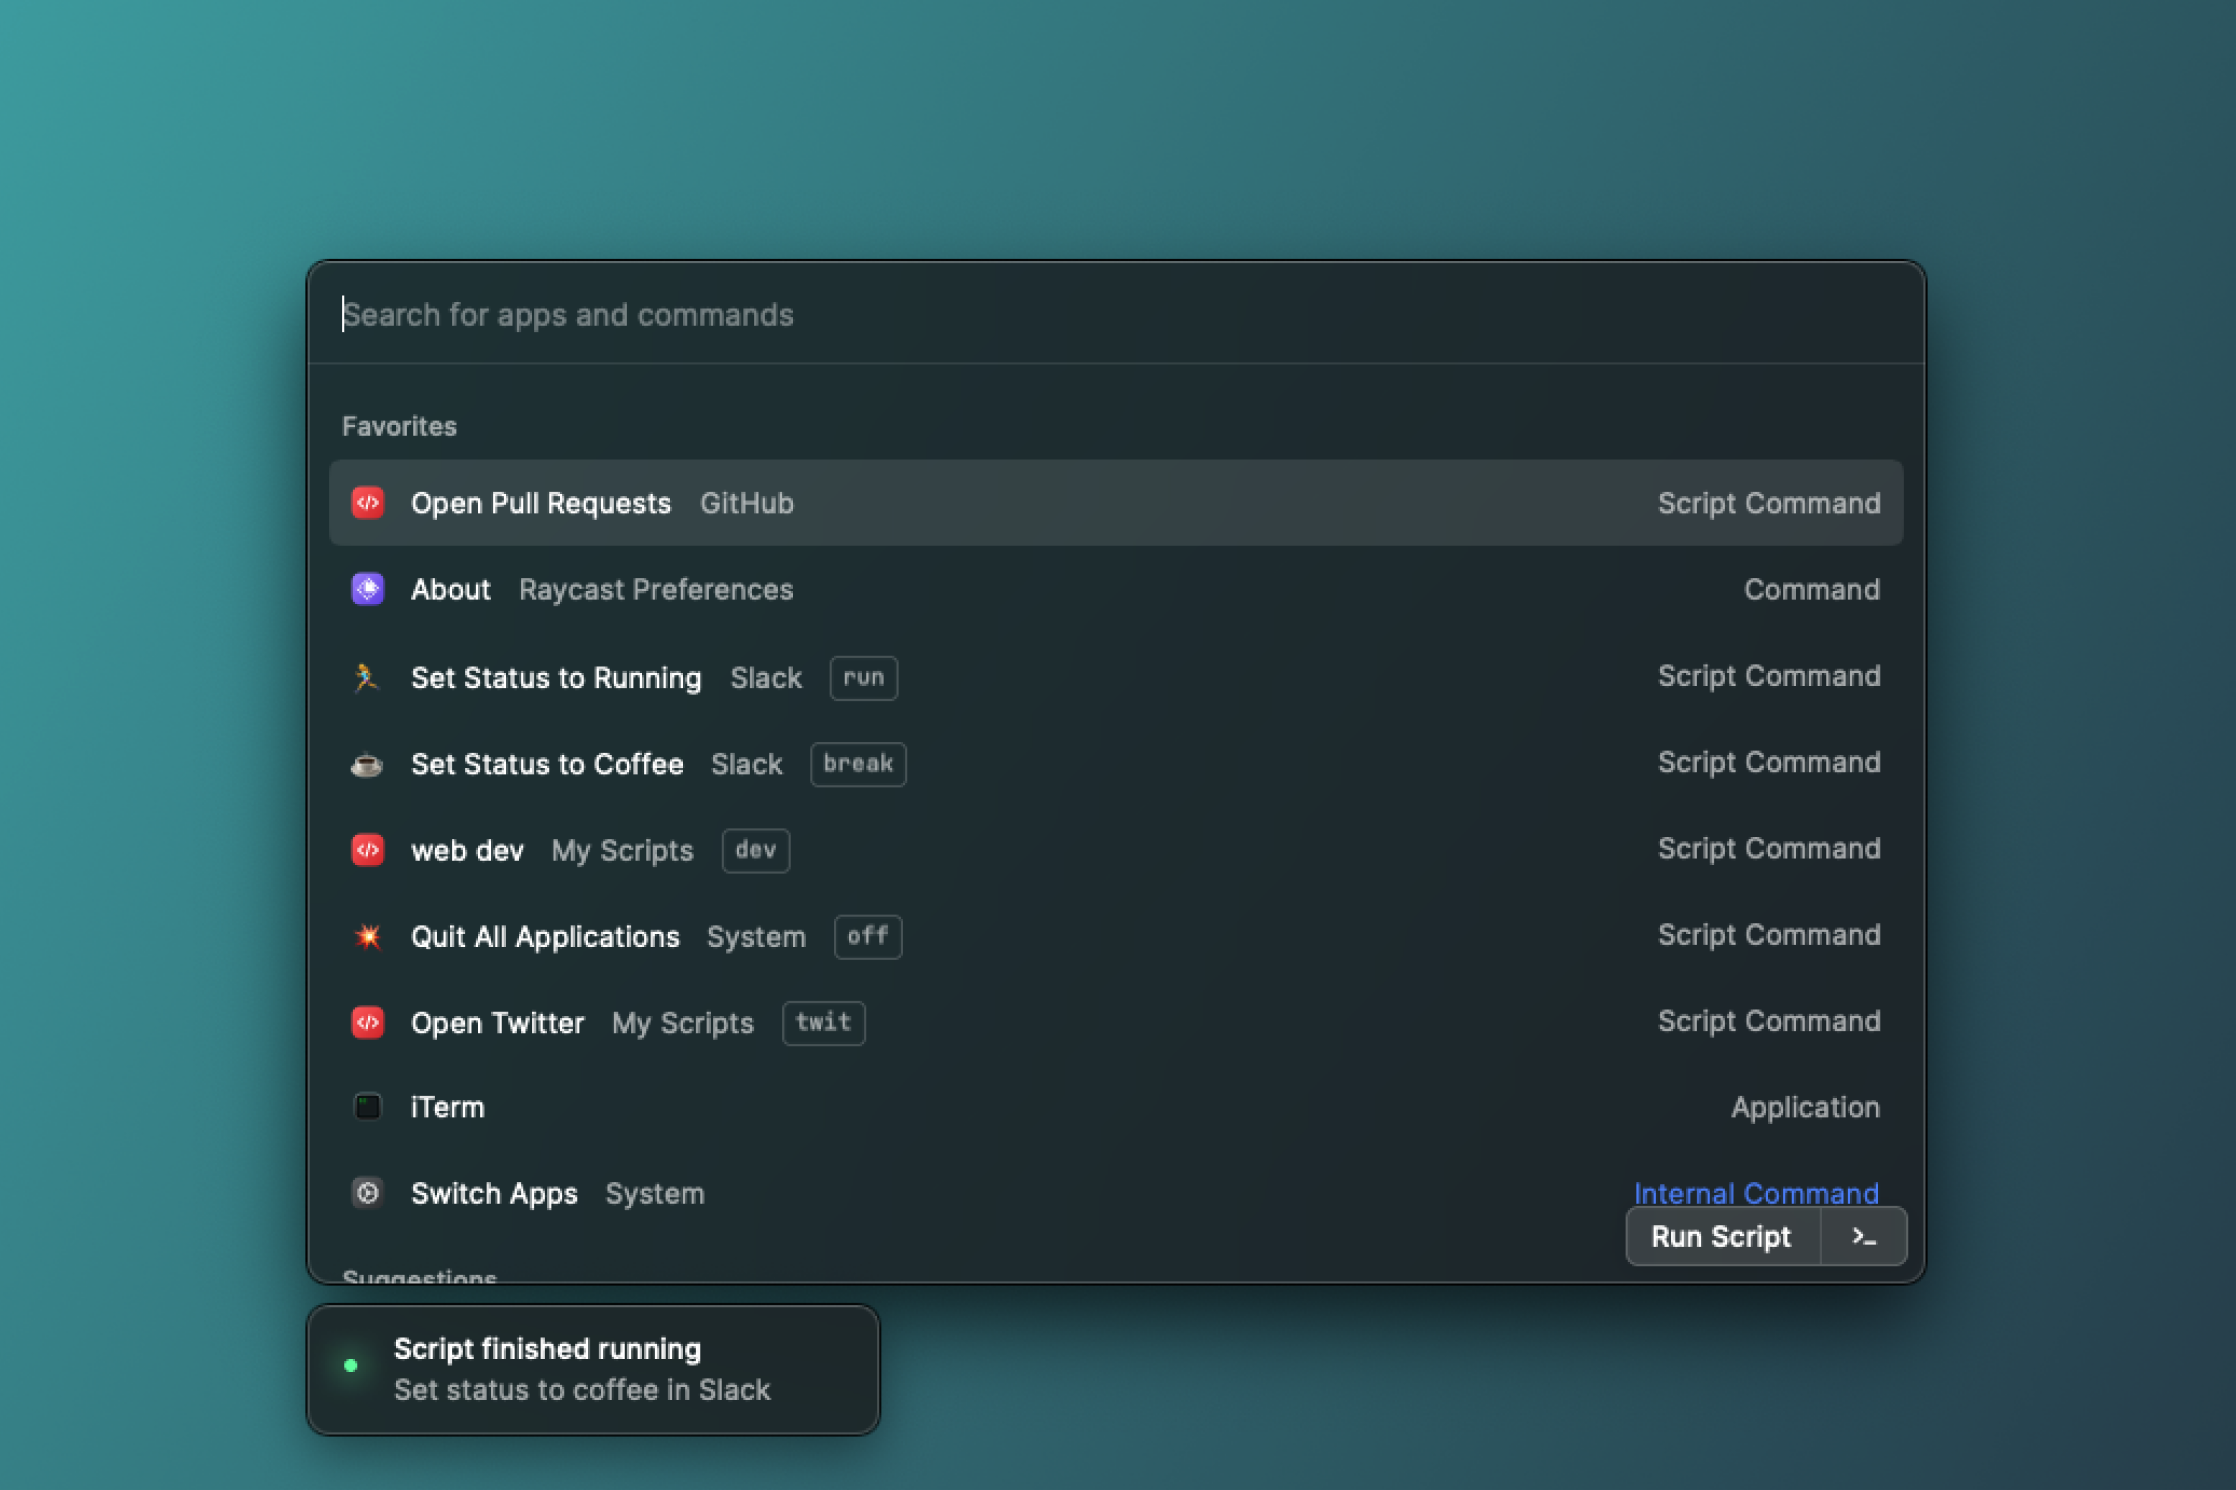
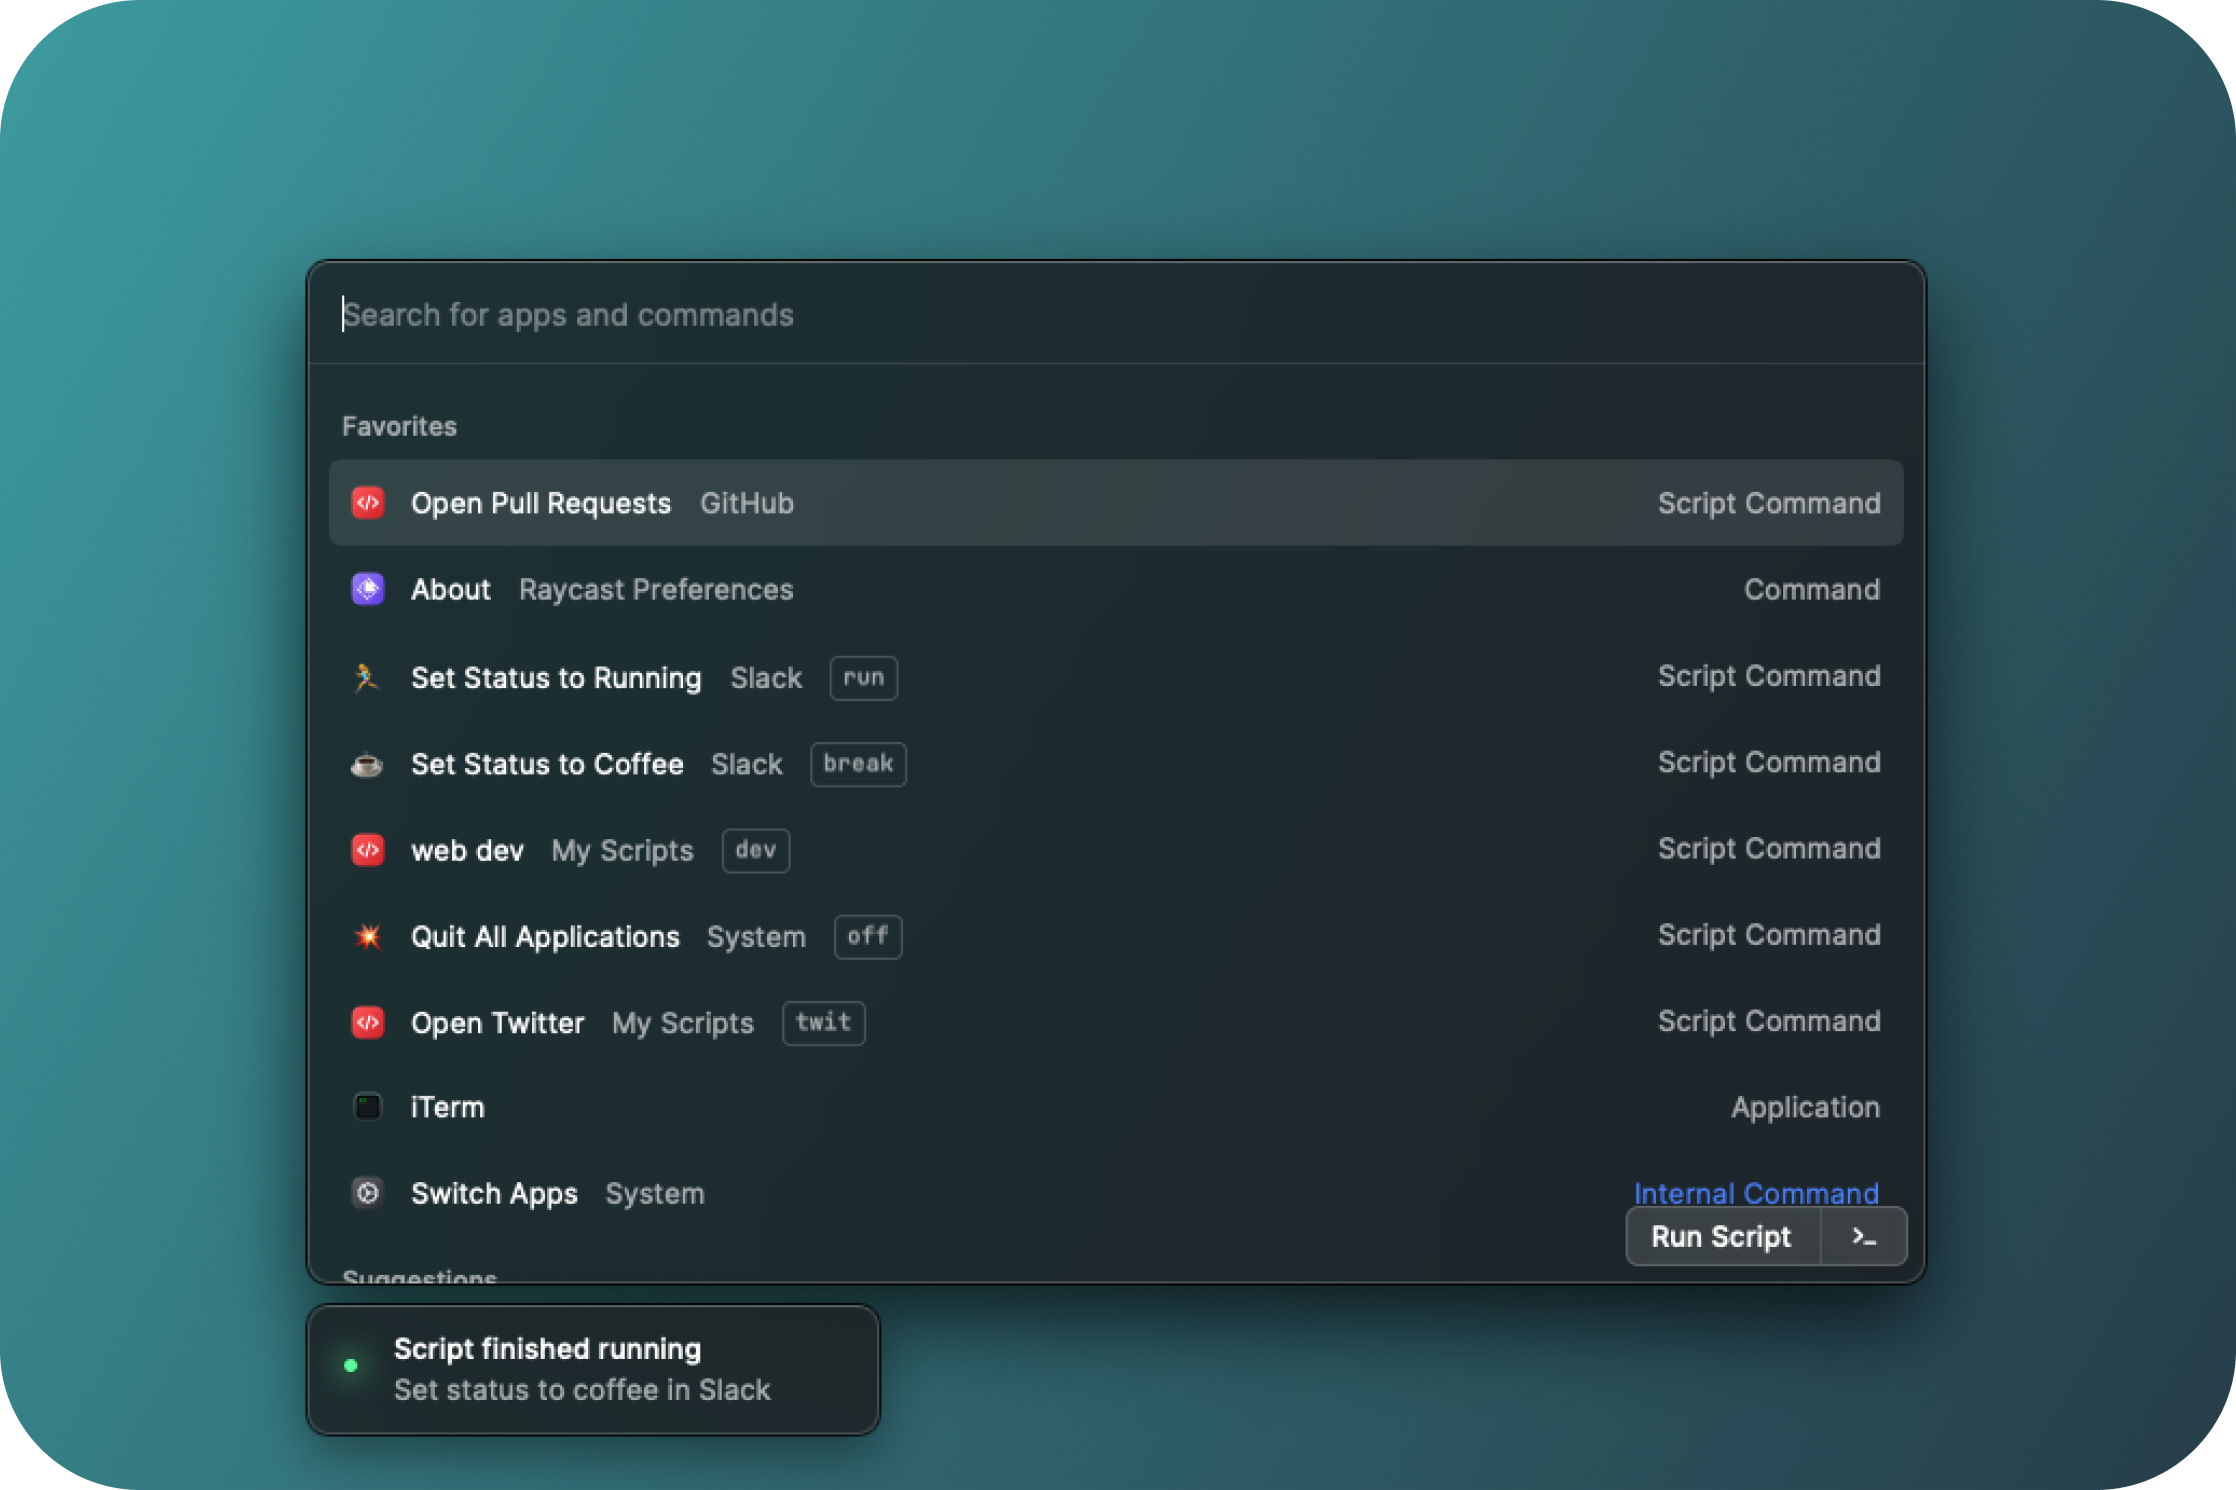
Updated screenshots and added tables

diff --git a/README.md b/README.md
@@ -70,7 +70,7 @@ These parameters are available for you to customise your Script Command in Rayca
 |----------------------|--------------------------------------------------------------------------------------------------------------------------------------------------------------------------------------------------------------------------------------------------------------------------------------|----------|---------------------|
 |schemaVersion        | Schema version to prepare for future changes in the API. Currently there is only version 1 available.                                                                                                                                                                                | Yes      | 0.29+               |
 | title                | Display name of the Script Command that is shown as title in the root search.                                                                                                                                                                                                        | Yes      | 0.29+               |
-| mode                 | Specifies how the script is executed and how the output is presented. Details of the options for this parameter can be viewed [here](https://www.notion.so/raycastapp/Output-modes-08c7a8f6d1f8490b8462032251b07857#8ff72e3b6b894f03bd012f3df1a4dfbf) | Yes      | 0.29+               |
+| mode                 | Specifies how the script is executed and how the output is presented. Details of the options for this parameter can be viewed [here](https://github.com/raycast/script-commands/blob/master/outputModes.md) | Yes      | 0.29+               |
 | packageName          | Display name of the package that is shown as subtitle in the root search. When not provided, the name will be inferred from the script directory name.                                                                                                                               | No       | 0.29+               |
 | icon                 | Icon that is displayed in the root search. Can be an emoji, a file path (relative or full) or a remote URL (only https). Supported formats for images are PNG and JPEG. Please make sure to use small icons, recommended size - 32px.                                                | No       | 0.29+               |
 | iconDark             | Same as `icon`, but for dark theme. If not specified, then `icon` will be used in both themes.                                                                                                                             | No       | 1.3.0+              |
@@ -84,7 +84,7 @@ These parameters are available for you to customise your Script Command in Rayca
 
 ### Output Mode
 
-You can use the standard output to present messages in Raycast. Depending on the `mode`, the standard output of your scripts is differently presented.`fullOutput` and `inline` modes support ANSI Escape codes allowing to colour generated output by changing its background and foreground colour. You can view the different output mode options as well as their various forms and colour options [here.](https://www.notion.so/Output-modes-08c7a8f6d1f8490b8462032251b07857)
+You can use the standard output to present messages in Raycast. Depending on the `mode`, the standard output of your scripts is differently presented.`fullOutput` and `inline` modes support ANSI Escape codes allowing to colour generated output by changing its background and foreground colour. You can view the different output mode options as well as their various forms and colour options [here.](https://github.com/raycast/script-commands/blob/master/outputModes.md)
 
 
 ### Error Handling
@@ -101,14 +101,14 @@ else
 
 ## Troubleshooting and FAQs
 <details>
-  <summary>My script isn't appearing!</summary>
+  <summary>My script isn't appearing in Raycast!</summary>
 
 * Make sure your script file is executable (you can run `file <path to script>` command in terminal to check it). To make the script executable, run: `chmod +x <path to script>`
 * Ensure the filename doesn't contain `.template.` string
 * Check that all required metadata parameters are provided. See the table above which parameters are required.
 * Ensure you use either `#` or `//` comments for metadata parameters
 * Reload the scripts, via 1) the "Reload" button in preferences or 2), the "Reload Script Directories" command in root search (v0.33+), or 3) automatically via the activated "Auto Reload" feature in preferences (v0.33+)
-* 💡 If nothing helps, try to go step by step from a [template](templates/script-command.template.sh) Script Command or use one of the examples in this repo.
+* 💡 If nothing helps, try to go step by step from a [template](https://github.com/raycast/script-commands/tree/master/templates) Script Command or use one of the examples in this repo.
 </details>
 
 
@@ -116,7 +116,7 @@ else
 <details>
   <summary>Can I build in a non-login shell?</summary>
 
-**We only allow Script Commands that run in a non-login shell in this repository as agreed on in our [contribution guidelines](https://www.notion.so/raycastapp/CONTRIBUTING.md), due to any dependancies.**
+**We only allow Script Commands that run in a non-login shell in this repository as agreed on in our [contribution guidelines](https://github.com/raycast/script-commands/blob/master/CONTRIBUTING.md), due to any dependancies.**
 However, if you need to run your local script as login-shell, you can specify an argument after shebang, e.g. `#!/bin/bash -l` for bash. We also append `/usr/local/bin` to `$PATH` variable so you can use your local shell commands without any additional steps. If this is not enough, you can always extend `$PATH` by adding `export PATH='/some/extra/path:$PATH'` at the top of your script.
 </details>
 

diff --git a/outputModes.md b/outputModes.md
@@ -25,15 +25,33 @@ We support colours for `inline` and `fullOutput` mode scripts for you to customi
 Escape code is in linux format: `0x1B`
 
 Colours are adapted to current users apperance settings (light and dark themes)
-
+| Colour | # Foreground | # Background | Light | Dark |
+| ------ | ------------ | ------------ | ----- | ---- |
+| Black | 30 | 40 | #000000 | #000000 |
+| Red | 31 | 41 | #B12424 | #FF6363 |
+| Green | 32 | 42 | #006B4F | #59D499 |
+| Yellow | 33 | 43 | #F8A300 | #FFC531 |
+| Blue | 34 | 44 | #138AF2 | #56C2FF |
+| Magenta | 35 | 45 | #9A1B6E | #CF2F98 |
+| Cyan | 36 | 46 | #3EB8BF | #52EEE5 |
+| White | 97 | 107 | #FFFFFF | #FFFFFF |
 **Other supported codes:**
+| Code | Name |
+| ---- | ---- |
+| 0 | Reset (normal) |
+| 4 | Underline |
+| 9 | Crossed out |
+| 24 | Not underlined |
+| 29 | Not crossed out |
 
-[Untitled](https://www.notion.so/550b81f90f9c48e385feba68a363abb6)
-
-Unsupported terminal codes will be stripped out from output and ignored.
+💡 Unsupported terminal codes will be stripped out from output and ignored.
 
 **Example:**
 
-![https://s3-us-west-2.amazonaws.com/secure.notion-static.com/b7507f62-3718-4e51-b3ee-c2659d73f3cc/colours.png](https://s3-us-west-2.amazonaws.com/secure.notion-static.com/b7507f62-3718-4e51-b3ee-c2659d73f3cc/colours.png)
+![colours inline mode](./images/screenshots/colour-example.png)
+| Script | Code |
+| ------ | ---- |
+| bash | `echo -e '\\033[31;42mred text on green background\\033[0m'` |
+| bash tput | `export TERM=linux; echo "$(tput setaf 1)$(tput setab 2)red text on green background$(tput sgr0)";` |
+| swift | `print("\\u{001B}[31;42mred text on green background\\u{001B}[0m")` |
 
-[Untitled](https://www.notion.so/40a837370fbc4eb68d41efbf9061de20)
